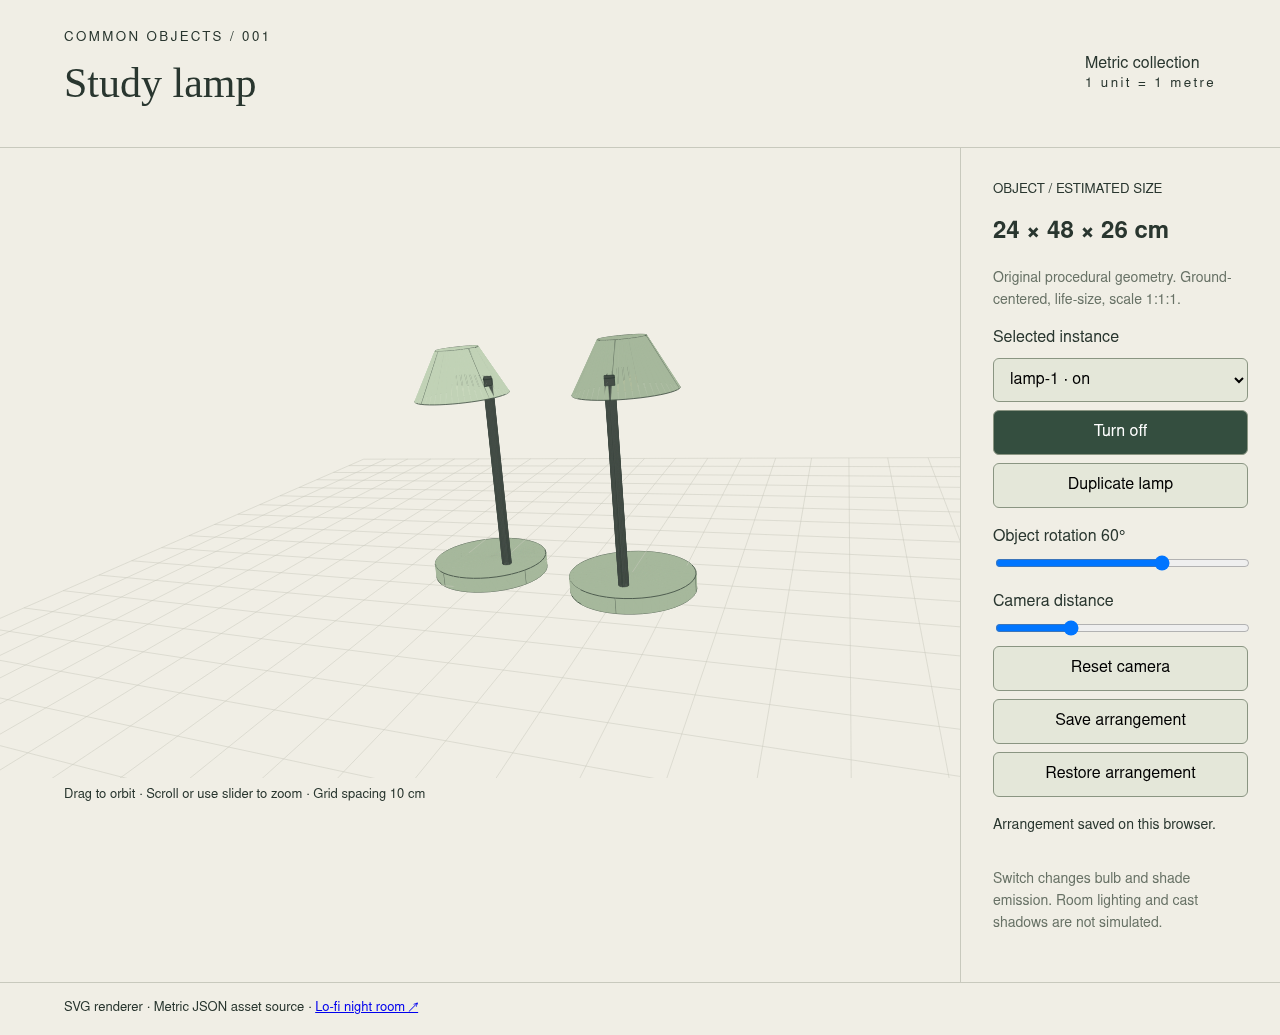
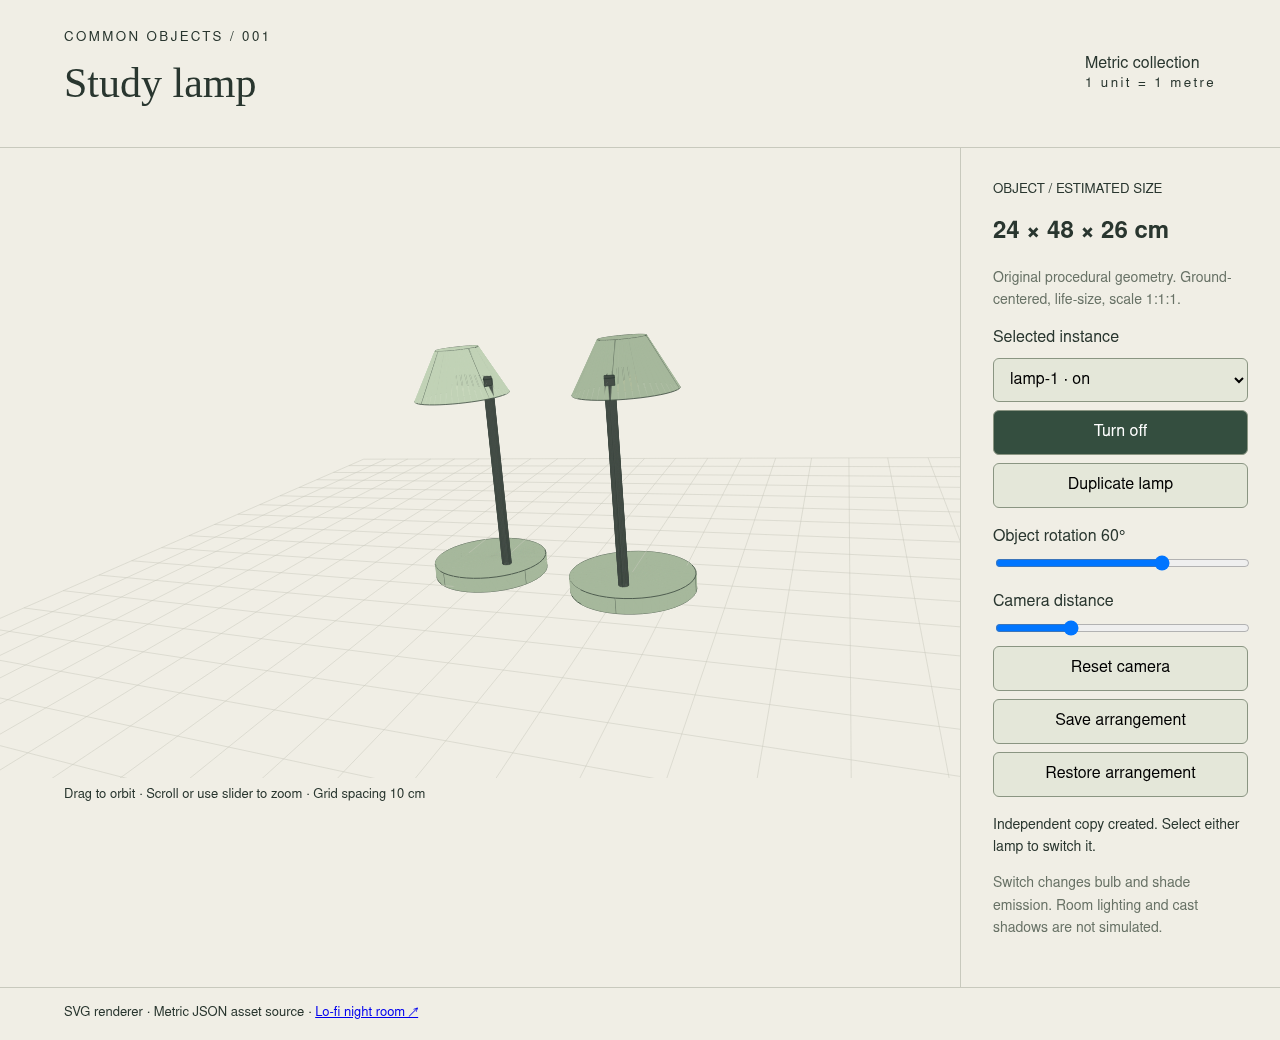
Clip SVG grid lines against the camera near plane

diff --git a/renderer/svg.js b/renderer/svg.js
@@ -9,10 +9,22 @@ export function svgScene(asset, instances, camera, width, height) {
   const project = v => [width / 2 + focal * v[0] / -v[2], height / 2 - focal * v[1] / -v[2]];
   const xy = v => project(v).map(n => n.toFixed(3)).join(',');
   const layers = [], matrices = worldParts(asset);
-  const line = (a, b, color, strokeWidth) => layers.push({
-    depth: (a[2] + b[2]) / 2 + .00001,
-    svg: `<path d="M${xy(a)}L${xy(b)}" fill="none" stroke="${color}" stroke-width="${strokeWidth}"/>`
-  });
+  const line = (a, b, color, strokeWidth) => {
+    // Match the metric renderer's 1 cm near plane. The floor grid can cross
+    // behind the camera even at the default view; projecting it there mirrors it.
+    const nearZ = -.01;
+    if (a[2] > nearZ && b[2] > nearZ) return;
+    if ((a[2] > nearZ) !== (b[2] > nearZ)) {
+      const k = (nearZ - a[2]) / (b[2] - a[2]);
+      const clipped = a.map((v, i) => v + (b[i] - v) * k);
+      if (a[2] > nearZ) a = clipped;
+      else b = clipped;
+    }
+    layers.push({
+      depth: (a[2] + b[2]) / 2 + .00001,
+      svg: `<path d="M${xy(a)}L${xy(b)}" fill="none" stroke="${color}" stroke-width="${strokeWidth}"/>`
+    });
+  };
   for (let n = -10; n <= 10; n++) {
     const v = n / 10;
     line(point(view, [-1, 0, v]), point(view, [1, 0, v]), '#c9c9bd', .5);

diff --git a/tests/colorfigures.test.js b/tests/colorfigures.test.js
@@ -59,3 +59,14 @@ test('SVG lamp opens existing version 1 arrangements without losing state', asyn
  const x = createInstance(original, 'saved-lamp', [.3,0,.4]); x.state.on=true;
  assert.deepEqual(loadScene(saveScene([x]),new Map([[lamp.id,lamp]])),[x]);
 });
+test('ground grid stays below the horizon when zoom brings its far edge behind the camera', async () => {
+ const lamp = await json('assets/desk-lamp/asset.json');
+ const svg = svgScene(lamp, [], {yaw:0,pitch:0,distance:.65}, 400, 400);
+ const lines = [...svg.matchAll(/<path d="M([^L]+)L([^\"]+)"/g)];
+ assert.ok(lines.length > 0);
+ for(const line of lines) for(const p of line.slice(1)) {
+  const [x,y]=p.split(',').map(Number);
+  assert.ok(Number.isFinite(x) && Number.isFinite(y));
+  assert.ok(y>=200, 'a ground line behind the camera was mirrored above the horizon');
+ }
+});

diff --git a/docs/validation.md b/docs/validation.md
@@ -30,3 +30,11 @@ SVG uses painter sorting, so intersecting surfaces and lines can show ordering a
 A later user instruction required every placeable asset to use 1 unit = 1 m. Imported descriptors v2 now provide metre dimensions/bounds/footprints, one shared physical calibration, reversible right-handed axis conversion and the original assembly in metre positions. Version 1 descriptors remain archived. The calibration assumes a 0.75 m worktop above the source finished floor (z=33 minus z=5). The original projected player artwork is unchanged.
 
 The missing placement API was observed RED before implementation. Targeted calibration, source-axis directions, inverse round trip, every imported group's metric envelopes/assembly position, the existing 0.48 m lamp and stored assembly unit scales passed. After adding open-drawer clearance, the affected three contract checks passed again. The final catalog validator accepts all 20 entries. Prior source parity, lamp state/persistence and browser flow evidence remains valid because the rendering/player paths did not change. See metric-placement.md for assumptions and every estimated envelope.
+
+## SVG near-plane correction
+
+The default lamp view put a far grid corner behind the camera (view z = +0.003954 m). Dividing that endpoint by negative depth mirrored a ground line into the upper-right background. SVG lines now clip against the same 0.01 m near plane as the original metric WebGL renderer before projection; asset geometry, metre calibration and room rendering are unchanged.
+
+The closest-zoom ground-grid regression failed before the change. Afterward it and the existing SVG independent-state/rotation/zoom test passed (2 tests). The incremental build succeeded. A scoped Chromium check exercised actual pointer orbit at camera distance 0.65, checked every grid endpoint below the level-camera horizon, and recorded zero console/page errors or HTTP failures (projection-result.json). Updated desktop/mobile lamp captures were opened; the stray diagonal is gone, with the existing layout and controls preserved. The near-plane capture below shows the closest-zoom check. Existing room and persistence evidence is reused.
+
+![SVG lamp closest zoom and level camera](screenshots/lamp-svg-near-plane.png)
